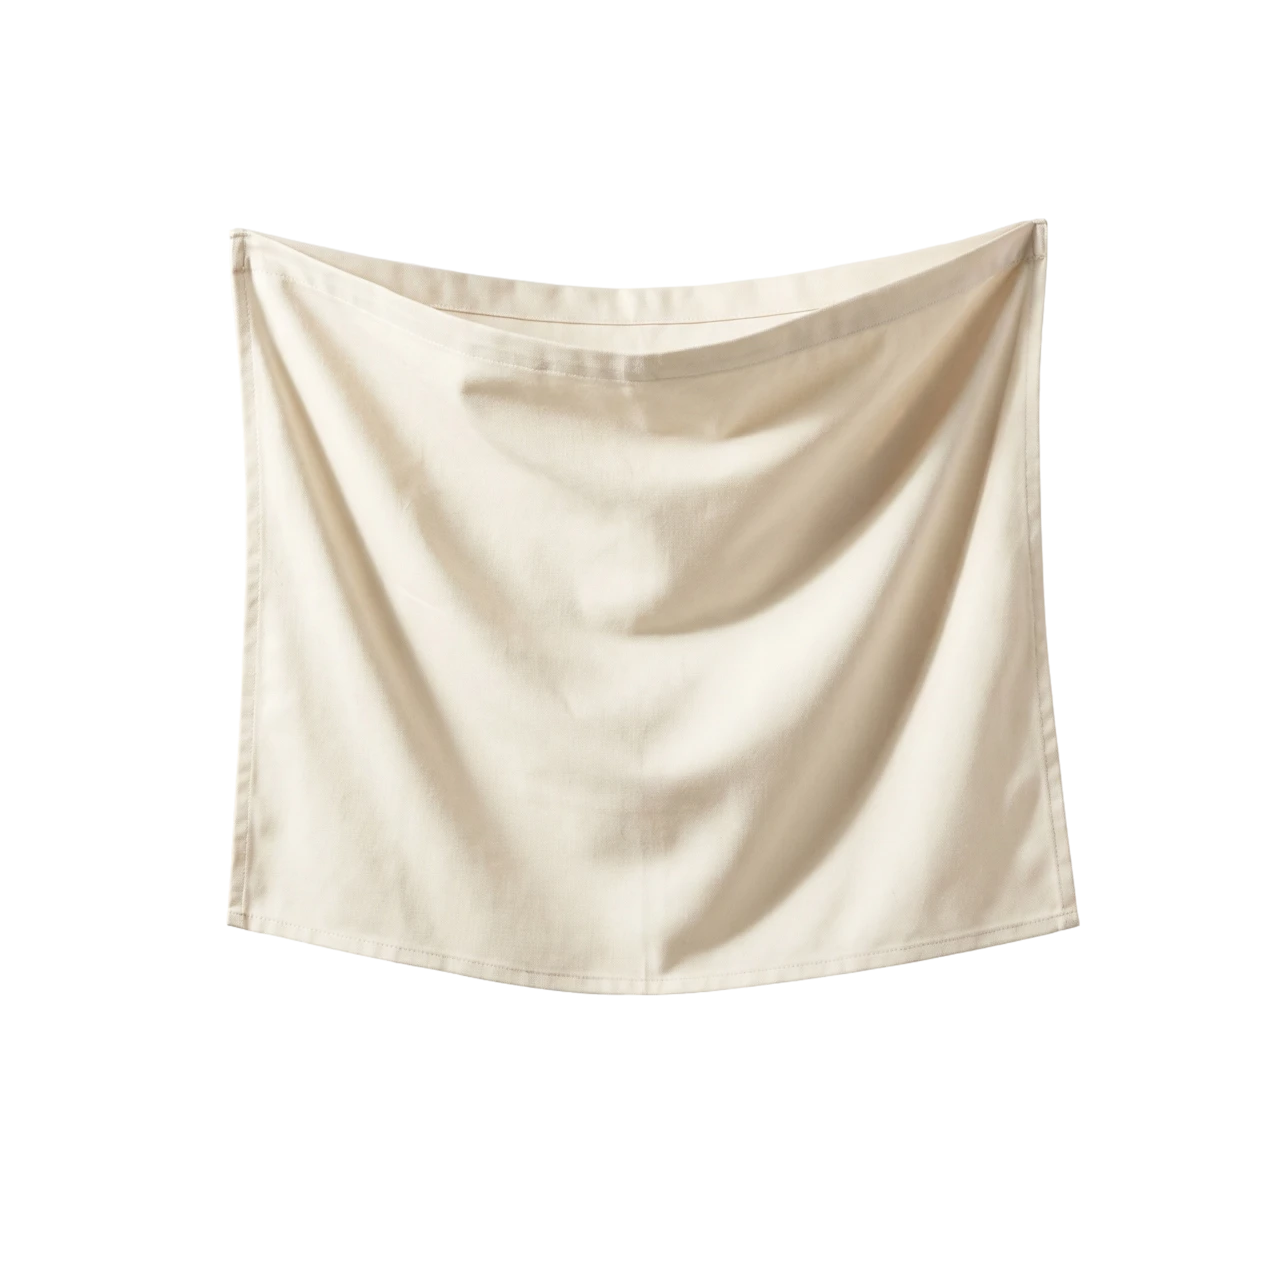
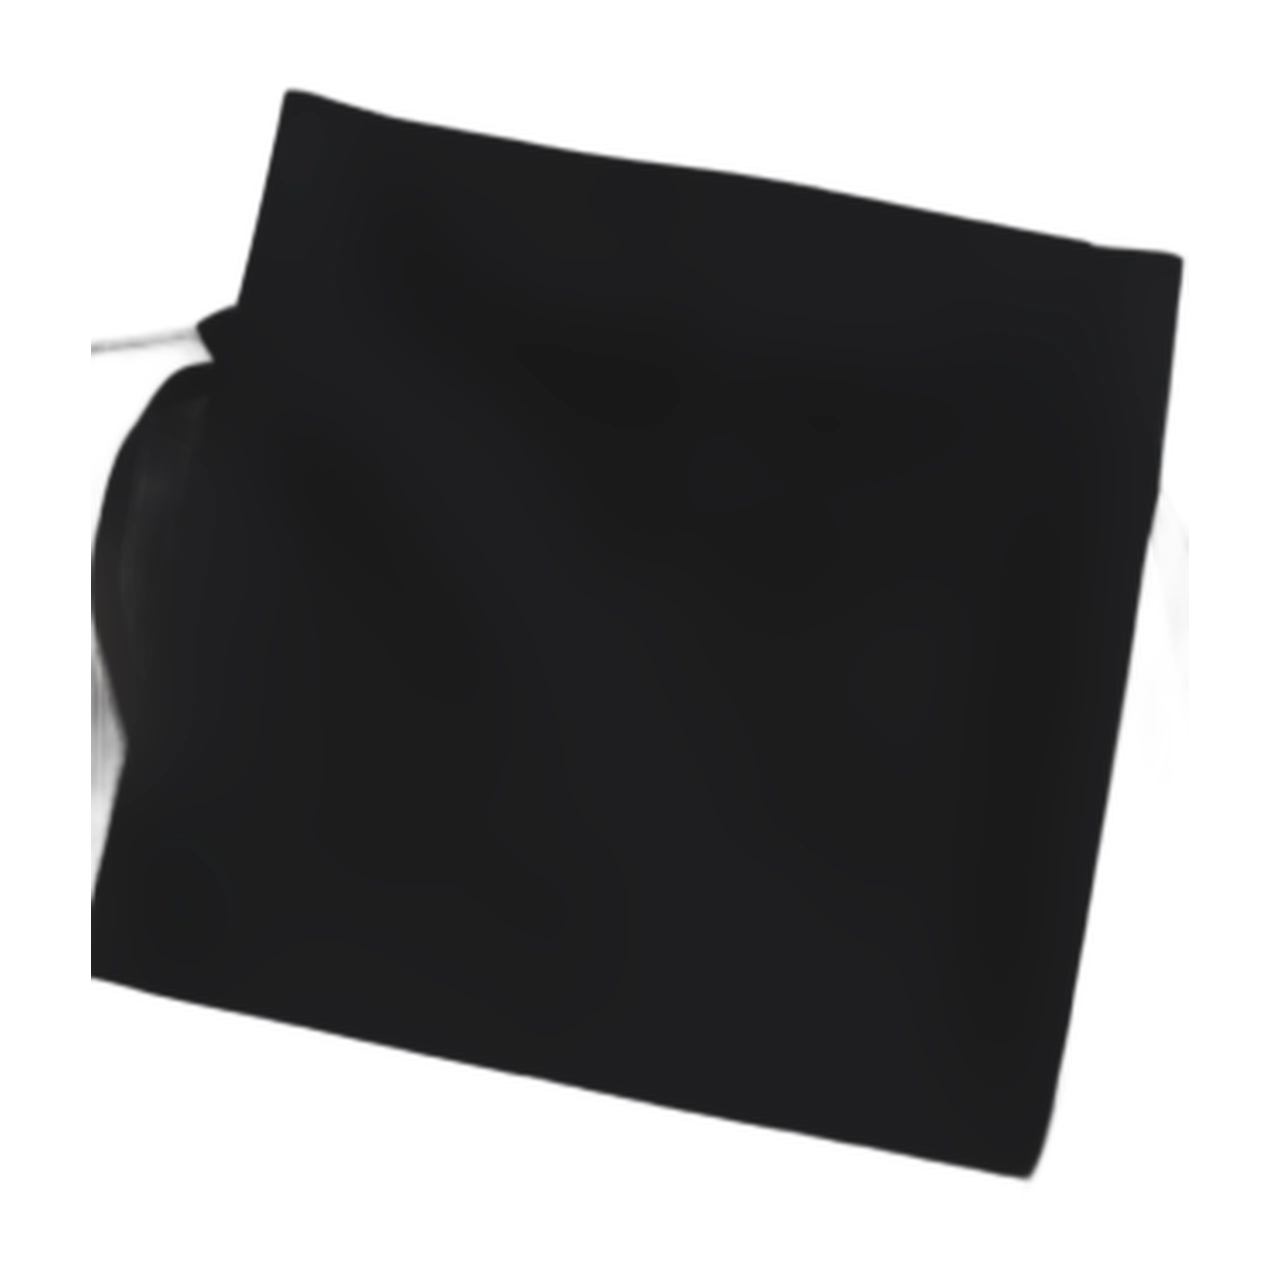
Mandil Corto Básico: foto real del mandil (sin bordado COMEDY/GABRÍ ni lanyards)
Recorte de la foto real del cliente, branding e lanyards removidos (rembg +
inpaint por luminancia/plate en ImageMagick), fondo transparente. untinted:true
(foto negra real). El bolsillo quedó sutil porque el lanyard lo cruzaba.

diff --git a/lib/shopify/mock.ts b/lib/shopify/mock.ts
@@ -717,7 +717,7 @@ export const mockCorporateProducts: CorporateProduct[] = [
     pricing: tramos({ 10: 19990, 25: 18990, 50: 17990, 100: 16990, 250: 15990 }), techniques: [SERIGRAFIA_1C, BORDADO, TRANSFER_DTF], areas: [PECHO_IZQ, PECHO_CENTRO, MANGA],
   }),
   product({
-    key: "MANDB", handle: "mandil-corto-basico",
+    key: "MANDB", handle: "mandil-corto-basico", untinted: true,
     title: "Mandil Corto Básico", category: "Delantales y Uniformes", catTag: "uniformes",
     intro: "Mandil corto básico de poliéster, liviano para servicio, barismo y atención. Práctico y económico.",
     material: "Poliéster", tallas: "Única", plazo: "5 a 7 días", leadDays: 7, modalidad: "Stock", baseCostUsd: 3,